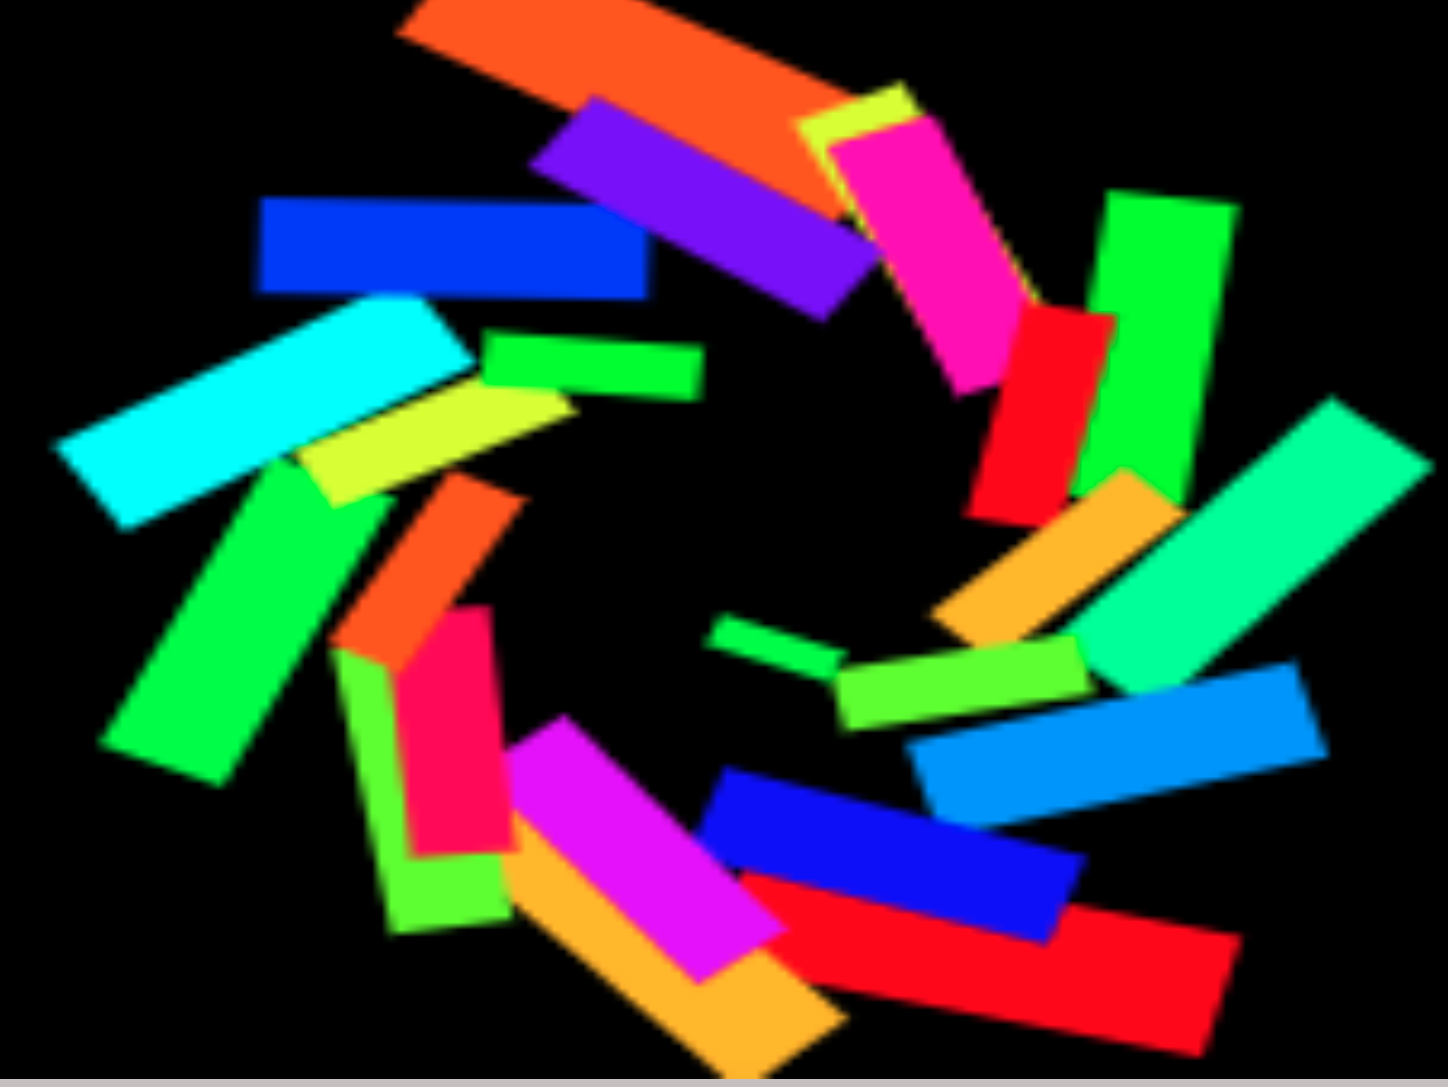
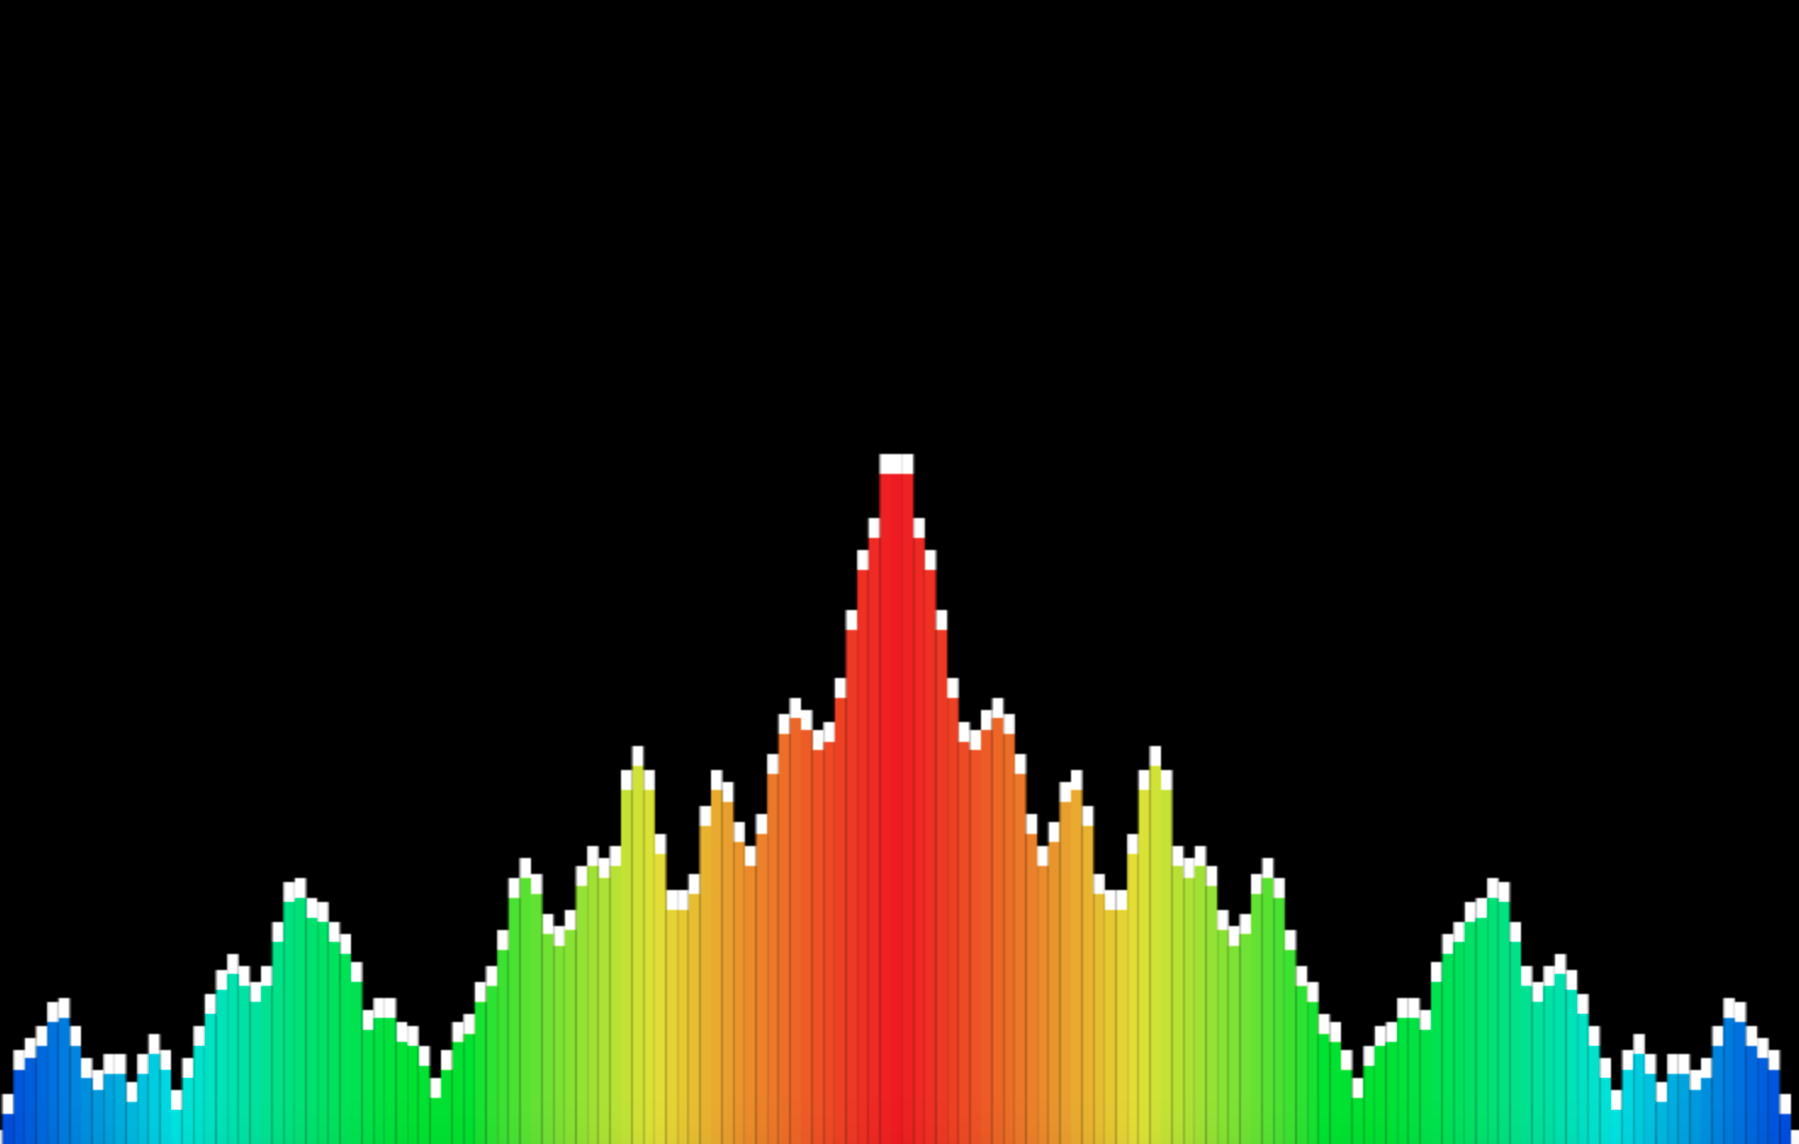
Add files via upload

diff --git a/src/coding/index.html b/src/coding/index.html
@@ -91,6 +91,42 @@
         </div>
         <img src="/src/coding/mv2.png" class="mv-img" />
       </div>
+      <!-- mv3 -->
+      <div class="mv mb-30">
+        <div class="mv-text">
+          <div class="title">music visualiser 3</div>
+          <div class="subtitle mb-30">Try my homebrew music visualiser</div>
+          <p>
+            Lorem ipsum dolor sit amet consectetur adipisicing elit. Nemo
+            mollitia laborum officia libero quaerat modi consequatur error sed
+            ipsam tenetur culpa voluptatibus minima repudiandae hic
+            exercitationem, quo eligendi illo quibusdam molestiae impedit,
+            voluptas temporibus esse provident voluptatem. Veritatis, eveniet
+            cupiditate perspiciatis eos omnis, tempore minima facilis, esse
+            reprehenderit sequi dignissimos
+          </p>
+          <button type="button" id="btn" onclick="play('mv3')">PLAY</button>
+        </div>
+        <img src="/src/coding/mv3.png" class="mv-img" />
+      </div>
+      <!-- mv4 -->
+      <div class="mv mb-30">
+        <div class="mv-text">
+          <div class="title">music visualiser 4</div>
+          <div class="subtitle mb-30">Try my homebrew music visualiser</div>
+          <p>
+            Lorem ipsum dolor sit amet consectetur adipisicing elit. Nemo
+            mollitia laborum officia libero quaerat modi consequatur error sed
+            ipsam tenetur culpa voluptatibus minima repudiandae hic
+            exercitationem, quo eligendi illo quibusdam molestiae impedit,
+            voluptas temporibus esse provident voluptatem. Veritatis, eveniet
+            cupiditate perspiciatis eos omnis, tempore minima facilis, esse
+            reprehenderit sequi dignissimos
+          </p>
+          <button type="button" id="btn" onclick="play('mv4')">PLAY</button>
+        </div>
+        <img src="/src/coding/mv4.png" class="mv-img" />
+      </div>
     </main>
     <script>
       function play(mv) {

diff --git a/src/coding/mv4.js b/src/coding/mv4.js
@@ -1,5 +1,5 @@
 /** settings */
-const NUMBER_OF_SAMPLES = 256
+const NUMBER_OF_SAMPLES = 2048
 
 //canvas
 const container = document.getElementById("container")
@@ -31,7 +31,8 @@ fileload.addEventListener("change", function () {
   let barHeight
   let x
 
-  function animate() {
+    // draw recursion
+  ;(function animate() {
     x = 0
     ctx.clearRect(0, 0, canvas.width, canvas.height)
     analyser.getByteFrequencyData(dataArr) // array of values , each represents volume of the frequency
@@ -39,8 +40,8 @@ fileload.addEventListener("change", function () {
     musicVisualiser(bufferLenght, x, barWidth, barHeight, dataArr) //mv
 
     requestAnimationFrame(animate)
-  }
-  animate()
+  })()
+  // animate()
 })
 
 // Music Visualiser function
@@ -49,37 +50,14 @@ function musicVisualiser(bufferLenght, x, barWidth, barHeight, dataArr) {
     barHeight = dataArr[i] * 2
 
     ctx.save()
+    ctx.translate(canvas.width / 2, canvas.height / 2)
+    ctx.rotate((i * Math.PI * 2 * 16) / bufferLenght)
+    // ctx.lineWidth = barHeight / 15
 
-    // white block
-    ctx.fillStyle = "white"
-    ctx.fillRect(
-      canvas.width / 2 - x,
-      canvas.height - barHeight - 10,
-      barWidth,
-      10
-    )
-    ctx.fillRect(
-      canvas.width / 2 + x,
-      canvas.height - barHeight - 10,
-      barWidth,
-      10
-    )
-
-    // color bars
-    const hue = (360 * i) / bufferLenght
+    const hue = (360 / NUMBER_OF_SAMPLES) * i * 2.5
     ctx.fillStyle = "hsl(" + hue + ",80%,50%)"
-    ctx.fillRect(
-      canvas.width / 2 - x,
-      canvas.height - barHeight,
-      barWidth,
-      barHeight
-    )
-    ctx.fillRect(
-      canvas.width / 2 + x,
-      canvas.height - barHeight,
-      barWidth,
-      barHeight
-    )
+
+    ctx.fillRect(0, 0, barWidth * 12, barHeight / 1.5)
 
     x += barWidth
     ctx.restore()

diff --git a/src/coding/mv3.js b/src/coding/mv3.js
@@ -31,7 +31,8 @@ fileload.addEventListener("change", function () {
   let barHeight
   let x
 
-  function animate() {
+    // draw recursion
+  ;(function animate() {
     x = 0
     ctx.clearRect(0, 0, canvas.width, canvas.height)
     analyser.getByteFrequencyData(dataArr) // array of values , each represents volume of the frequency
@@ -39,8 +40,8 @@ fileload.addEventListener("change", function () {
     musicVisualiser(bufferLenght, x, barWidth, barHeight, dataArr) //mv
 
     requestAnimationFrame(animate)
-  }
-  animate()
+  })()
+  // animate()
 })
 
 // Music Visualiser function
@@ -49,37 +50,14 @@ function musicVisualiser(bufferLenght, x, barWidth, barHeight, dataArr) {
     barHeight = dataArr[i] * 2
 
     ctx.save()
+    ctx.translate(canvas.width / 2, canvas.height / 2)
+    ctx.rotate((i * Math.PI * 2 * 1.5) / bufferLenght)
+    // ctx.lineWidth = barHeight / 15
 
-    // white block
-    ctx.fillStyle = "white"
-    ctx.fillRect(
-      canvas.width / 2 - x,
-      canvas.height - barHeight - 10,
-      barWidth,
-      10
-    )
-    ctx.fillRect(
-      canvas.width / 2 + x,
-      canvas.height - barHeight - 10,
-      barWidth,
-      10
-    )
-
-    // color bars
-    const hue = (360 * i) / bufferLenght
+    const hue = (360 / NUMBER_OF_SAMPLES) * i * 2.5
     ctx.fillStyle = "hsl(" + hue + ",80%,50%)"
-    ctx.fillRect(
-      canvas.width / 2 - x,
-      canvas.height - barHeight,
-      barWidth,
-      barHeight
-    )
-    ctx.fillRect(
-      canvas.width / 2 + x,
-      canvas.height - barHeight,
-      barWidth,
-      barHeight
-    )
+
+    ctx.fillRect(0, 0, barWidth, barHeight)
 
     x += barWidth
     ctx.restore()

diff --git a/src/coding/mv3.html b/src/coding/mv3.html
@@ -1,0 +1,21 @@
+<!DOCTYPE html>
+
+<html>
+  <head>
+    <meta charset="utf-8" />
+    <meta http-equiv="X-UA-Compatible" content="IE=edge" />
+    <title></title>
+    <meta name="description" content="" />
+    <meta name="viewport" content="width=device-width, initial-scale=1" />
+    <link rel="stylesheet" href="mv.css" />
+  </head>
+  <body>
+    <div id="container">
+      <canvas id="cnvs"></canvas>
+      <audio id="audio1" controls></audio>
+      <input type="file" id="fileload" />
+    </div>
+
+    <script src="/src/coding/mv3.js" async defer></script>
+  </body>
+</html>

diff --git a/src/coding/mv4.html b/src/coding/mv4.html
@@ -1,0 +1,21 @@
+<!DOCTYPE html>
+
+<html>
+  <head>
+    <meta charset="utf-8" />
+    <meta http-equiv="X-UA-Compatible" content="IE=edge" />
+    <title></title>
+    <meta name="description" content="" />
+    <meta name="viewport" content="width=device-width, initial-scale=1" />
+    <link rel="stylesheet" href="mv.css" />
+  </head>
+  <body>
+    <div id="container">
+      <canvas id="cnvs"></canvas>
+      <audio id="audio1" controls></audio>
+      <input type="file" id="fileload" />
+    </div>
+
+    <script src="/src/coding/mv4.js" async defer></script>
+  </body>
+</html>
